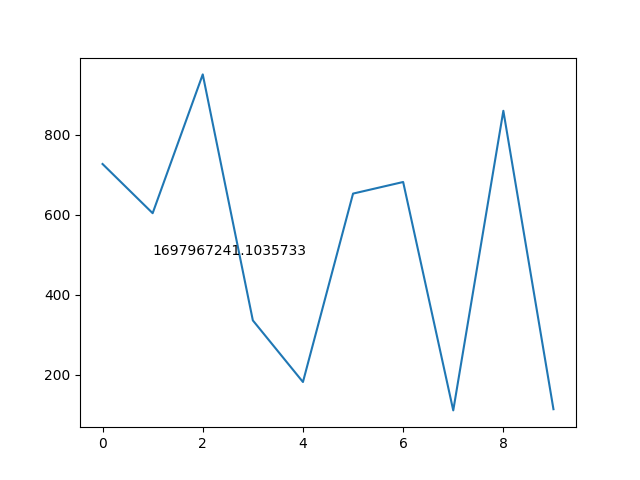
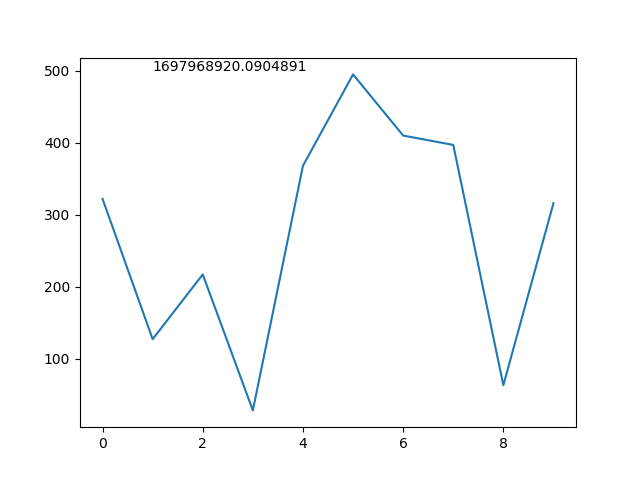
basic idea works, it is possible to add datapoints and the picture changes.

diff --git a/app/templates/index.html b/app/templates/index.html
@@ -2,4 +2,15 @@
 
 {% block content %}
     <h1>Hi, {{ current_user.username }}!</h1>
+    <form action=""" method="post">
+        {{ form.hidden_tag() }}
+        <p>
+            {{ form.data.label }}<br>
+            {{ form.data(size=32) }}<br>
+            {% for error in form.data.errors %}
+            <span style="color: red;">[{{ error }}]</span>
+            {% endfor %}
+        </p>
+        <p>{{ form.submit() }}</p>
+    </form>
 {% endblock %}

diff --git a/app/routes.py b/app/routes.py
@@ -2,15 +2,24 @@ from flask import render_template, flash, redirect, url_for, request
 from flask_login import current_user, login_user, logout_user, login_required
 from werkzeug.urls import url_parse
 from app import app, db
-from app.forms import LoginForm, RegistrationForm
-from app.models import User
+from app.forms import LoginForm, RegistrationForm, DataForm
+from app.models import User, Datapoint
 import os
 
-@app.route('/')
-@app.route('/index')
+from app.testfunctions import make_random_image
+
+@app.route('/', methods=['GET', 'POST'])
+@app.route('/index', methods=['GET', 'POST'])
 @login_required
 def index():
-    return render_template('index.html', title='Home')
+    form = DataForm()
+    if form.validate_on_submit():
+        data = Datapoint(user_id=current_user.id, weight=form.data.data)
+        db.session.add(data)
+        db.session.commit()
+        flash('datapoint added!')
+        make_random_image(r"C:\Users\Benja\Code\Python\Webside - Fitness\app\static\images\test.png")
+    return render_template('index.html', title='Home', form=form)
 
 @app.route('/login', methods=['GET', 'POST'])
 def login():

diff --git a/app/forms.py b/app/forms.py
@@ -1,5 +1,5 @@
 from flask_wtf import FlaskForm
-from wtforms import StringField, PasswordField, BooleanField, SubmitField
+from wtforms import StringField, PasswordField, BooleanField, SubmitField, FloatField
 from wtforms.validators import ValidationError, DataRequired, Email, EqualTo
 from app.models import User
 
@@ -27,3 +27,8 @@ class RegistrationForm(FlaskForm):
         user = User.query.filter_by(email=email.data).first()
         if user is not None:
             raise ValidationError('Please use a different email address.')
+        
+    
+class DataForm(FlaskForm):
+    data = FloatField('Add a Datapoint', validators=[DataRequired()])
+    submit = SubmitField('Submit')

diff --git a/app/testfunctions.py b/app/testfunctions.py
@@ -14,4 +14,4 @@ def make_random_image(savepath):
     ax.text(x=1, y=500, s=time.time())
     fig.savefig(savepath)
 
-make_random_image(r"C:\Users\Benja\Code\Python\Webside - Fitness\app\static\images\test.png")
+# make_random_image(r"C:\Users\Benja\Code\Python\Webside - Fitness\app\static\images\test.png")
